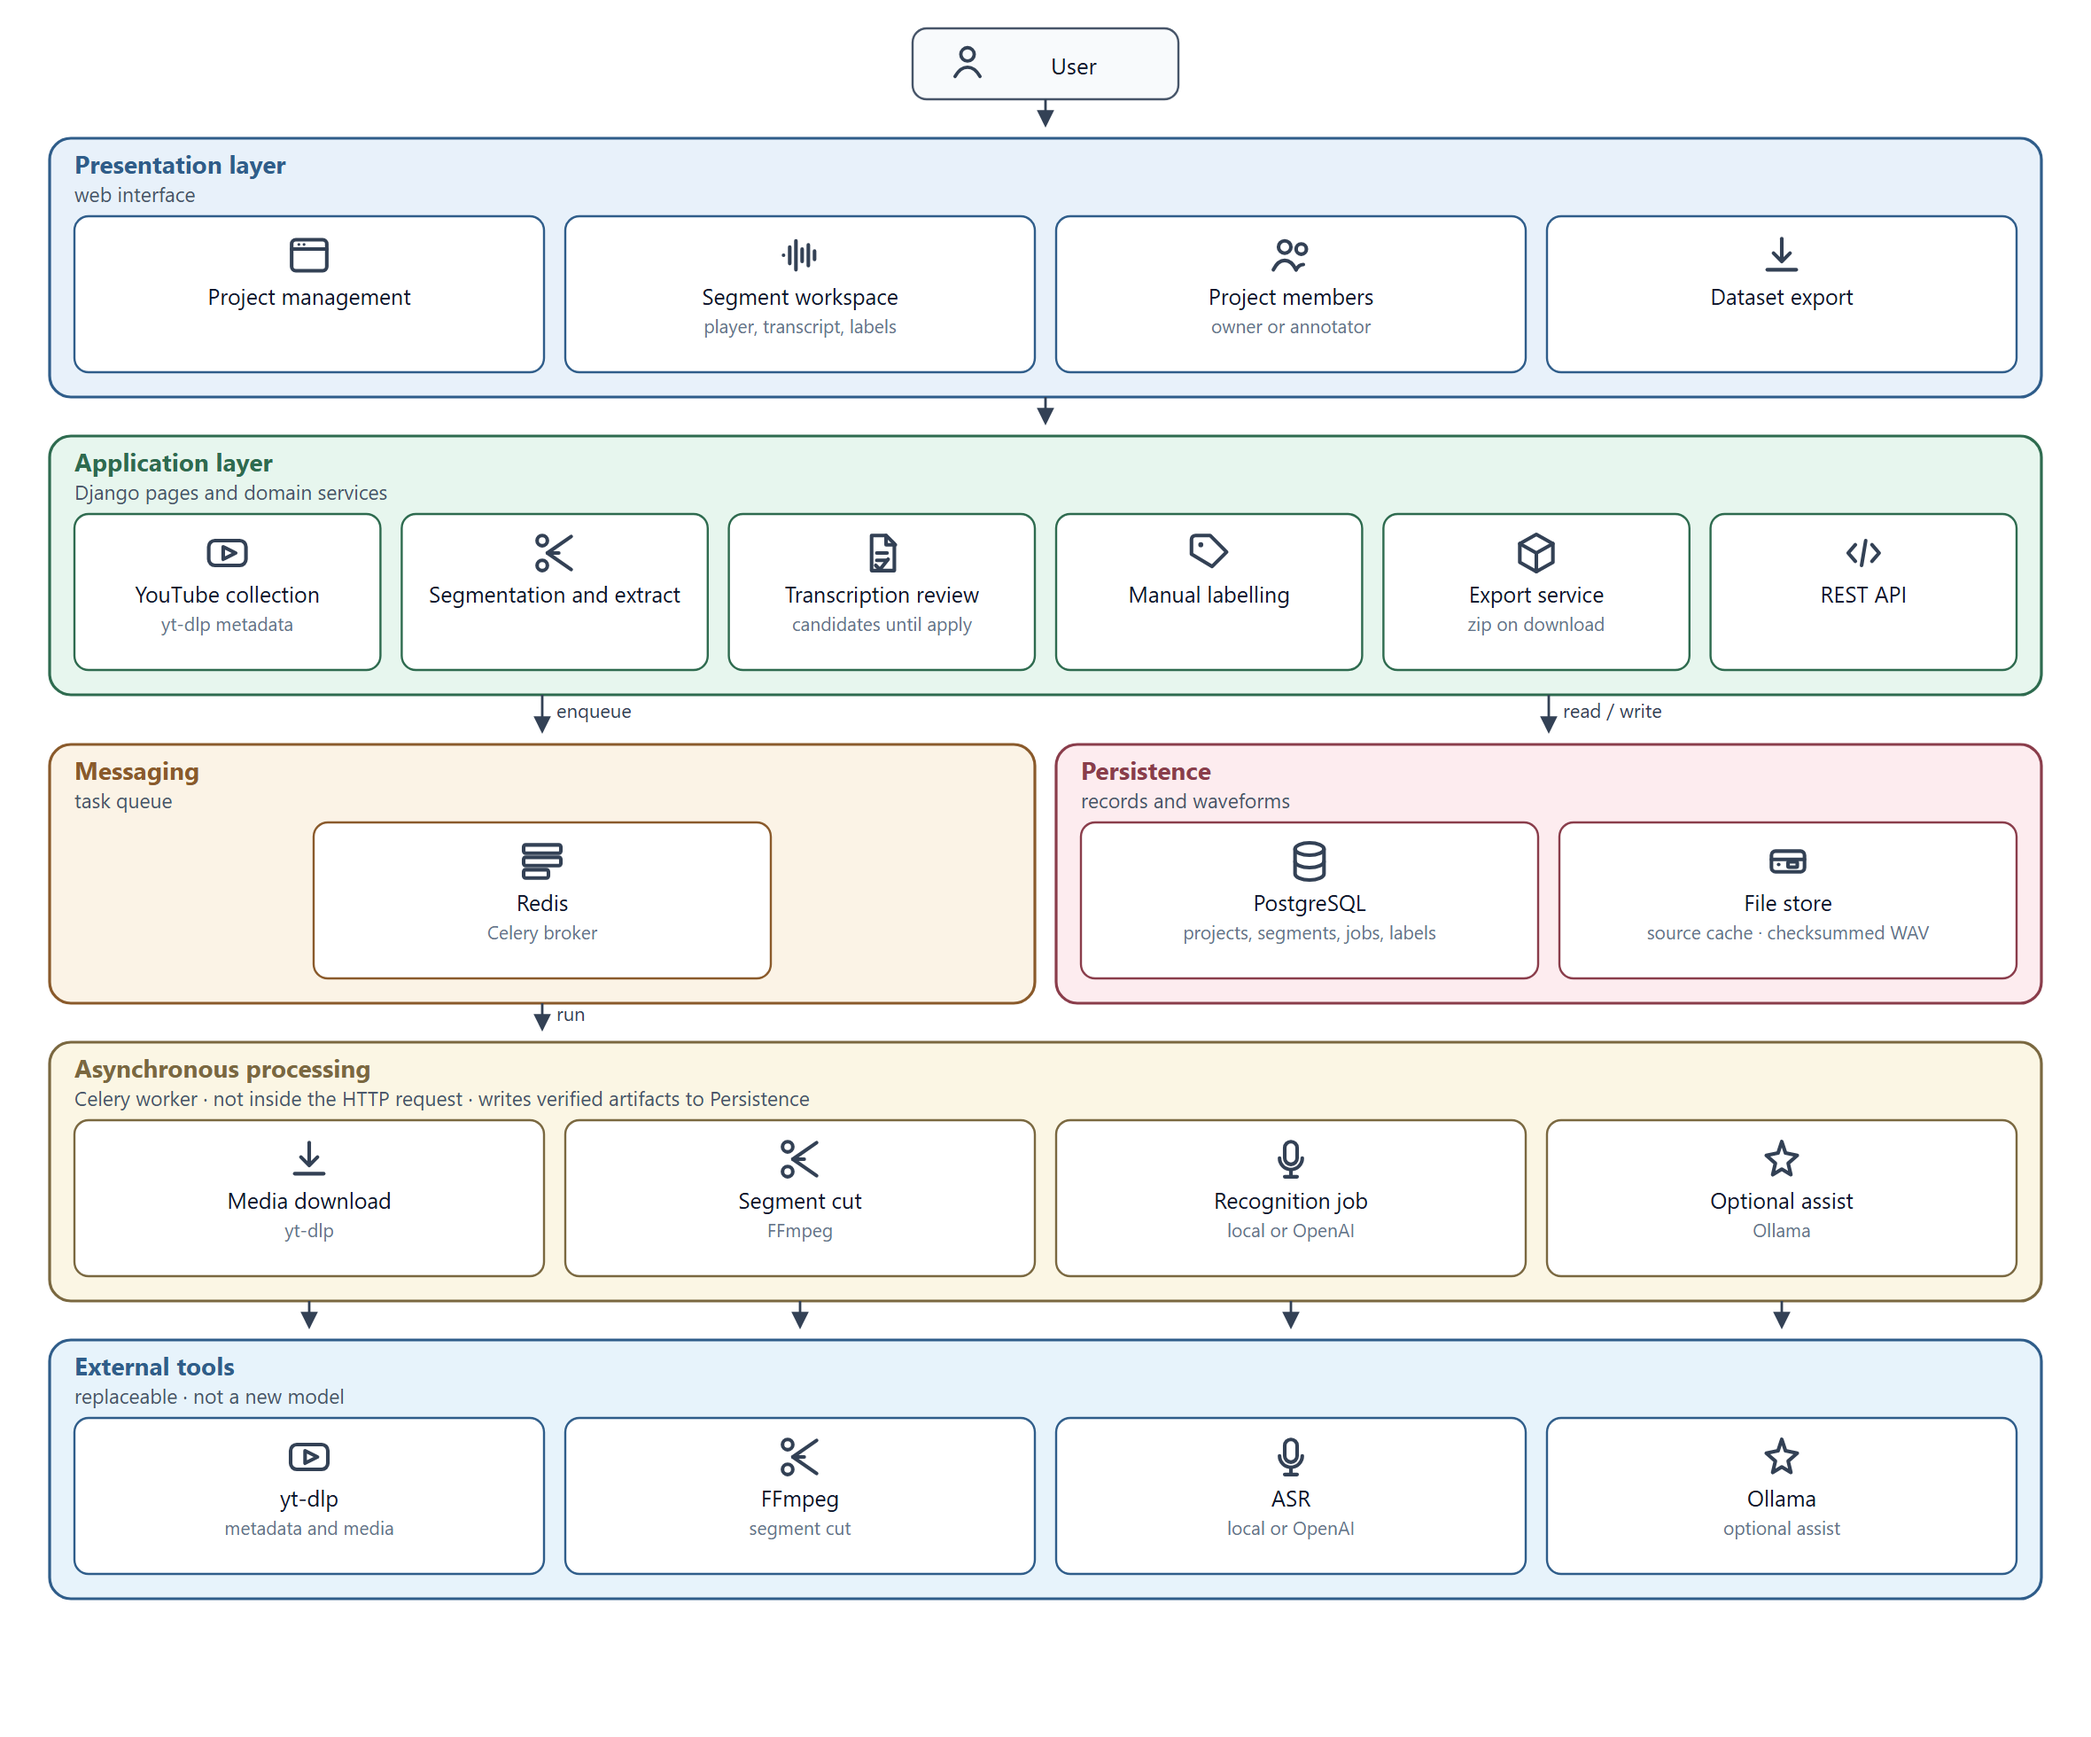
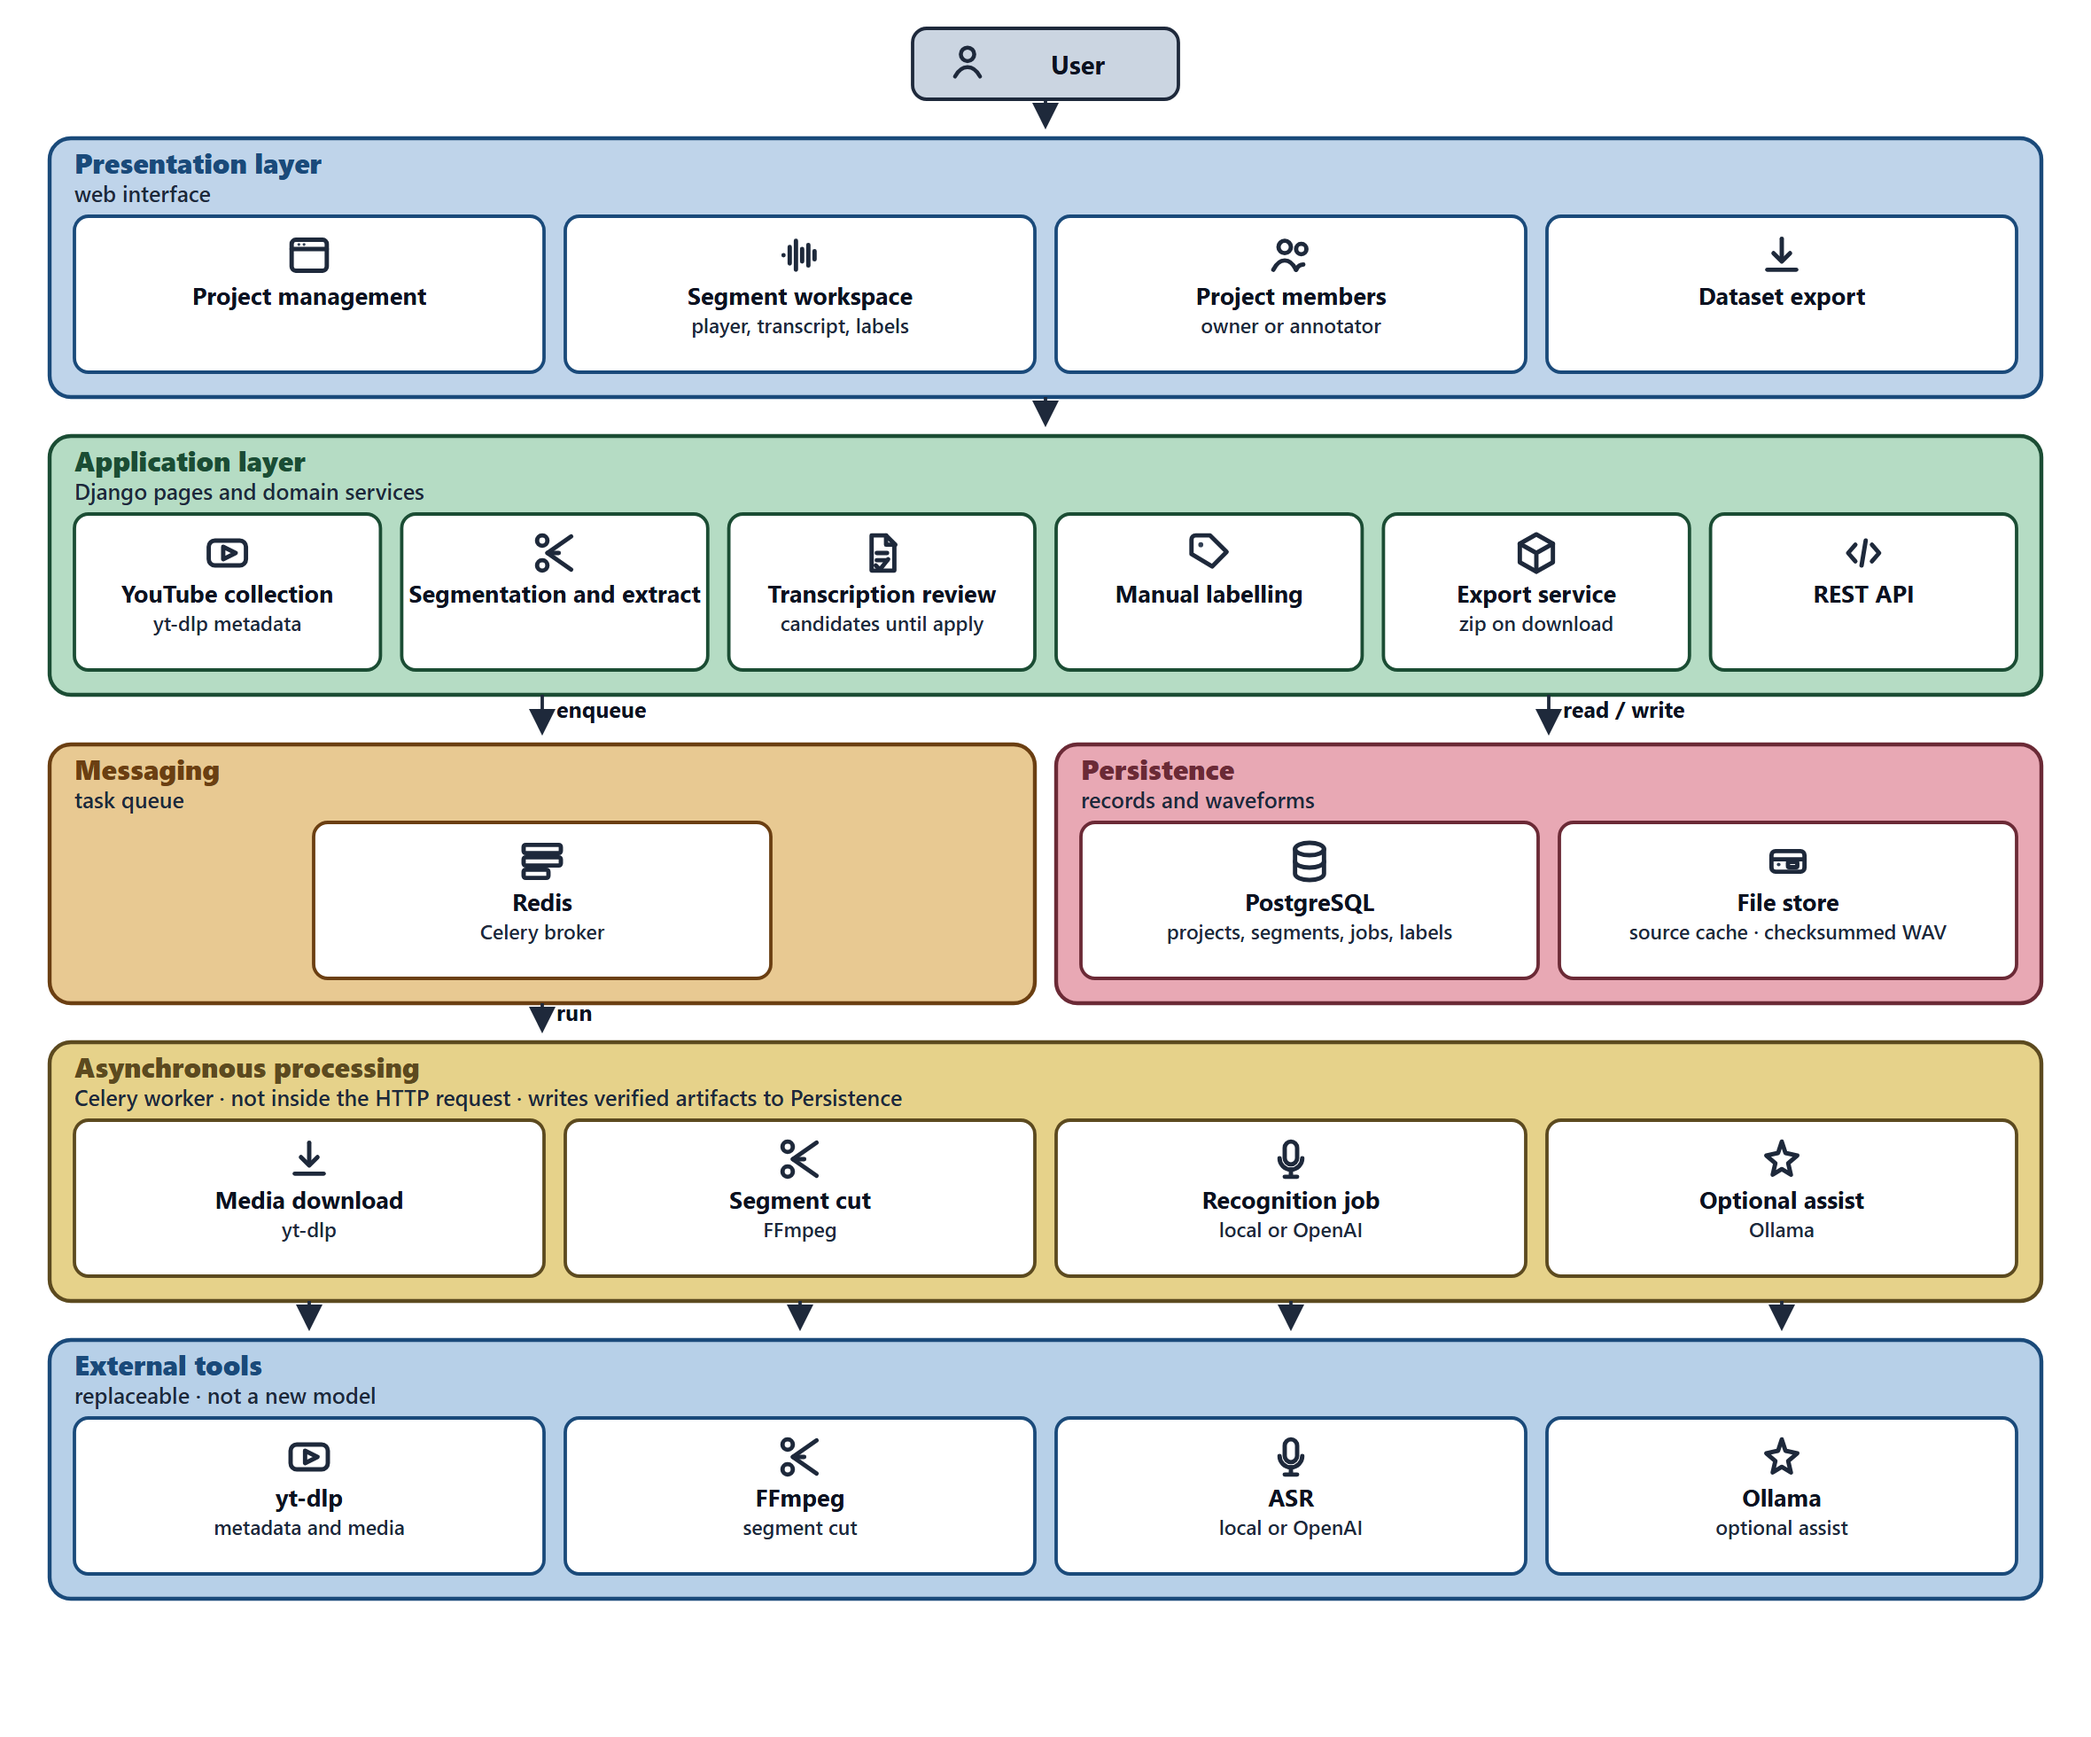
feat: fix admin log user uuid

diff --git a/apps/workspace/migrations/0014_fix_admin_log_user_uuid.py b/apps/workspace/migrations/0014_fix_admin_log_user_uuid.py
@@ -1,0 +1,92 @@
+"""Point django_admin_log.user_id at workspace.AppUser (UUID PK).
+
+When AUTH_USER_MODEL switched to AppUser, LogEntry still had an integer FK
+to the leftover auth_user table. Admin index then fails with:
+  operator does not exist: integer = uuid
+"""
+
+from __future__ import annotations
+
+from django.db import migrations
+
+
+FK_NAME = "django_admin_log_user_id_c564eba6_fk_auth_user_id"
+NEW_FK = "django_admin_log_user_id_fk_users"
+
+
+def forwards(apps, schema_editor):
+    if schema_editor.connection.vendor != "postgresql":
+        return
+    with schema_editor.connection.cursor() as cursor:
+        cursor.execute(
+            """
+            SELECT data_type
+            FROM information_schema.columns
+            WHERE table_schema = current_schema()
+              AND table_name = 'django_admin_log'
+              AND column_name = 'user_id'
+            """
+        )
+        row = cursor.fetchone()
+        if row is None or row[0] == "uuid":
+            return
+
+        cursor.execute("DELETE FROM django_admin_log")
+        cursor.execute(
+            """
+            SELECT conname
+            FROM pg_constraint
+            WHERE conrelid = 'django_admin_log'::regclass
+              AND contype = 'f'
+              AND pg_get_constraintdef(oid) LIKE '%user_id%'
+            """
+        )
+        for (conname,) in cursor.fetchall():
+            cursor.execute(
+                f'ALTER TABLE django_admin_log DROP CONSTRAINT IF EXISTS "{conname}"'
+            )
+        # Also drop the historical auth_user FK name if present.
+        cursor.execute(
+            f"ALTER TABLE django_admin_log DROP CONSTRAINT IF EXISTS {FK_NAME}"
+        )
+        cursor.execute(
+            "ALTER TABLE django_admin_log ADD COLUMN user_id_uuid uuid NULL"
+        )
+        cursor.execute("ALTER TABLE django_admin_log DROP COLUMN user_id")
+        cursor.execute(
+            "ALTER TABLE django_admin_log RENAME COLUMN user_id_uuid TO user_id"
+        )
+        # Empty table: SET NOT NULL is valid.
+        cursor.execute(
+            "ALTER TABLE django_admin_log ALTER COLUMN user_id SET NOT NULL"
+        )
+        cursor.execute(
+            f"""
+            ALTER TABLE django_admin_log
+              ADD CONSTRAINT {NEW_FK}
+              FOREIGN KEY (user_id) REFERENCES users(id)
+              DEFERRABLE INITIALLY DEFERRED
+            """
+        )
+        cursor.execute(
+            """
+            CREATE INDEX IF NOT EXISTS django_admin_log_user_id_idx
+              ON django_admin_log (user_id)
+            """
+        )
+
+
+def backwards(apps, schema_editor):
+    # Irreversible: UUID log rows cannot map back to integer auth_user ids.
+    pass
+
+
+class Migration(migrations.Migration):
+    dependencies = [
+        ("admin", "0003_logentry_add_action_flag_choices"),
+        ("workspace", "0013_alter_appuser_auth_help_text"),
+    ]
+
+    operations = [
+        migrations.RunPython(forwards, backwards),
+    ]
